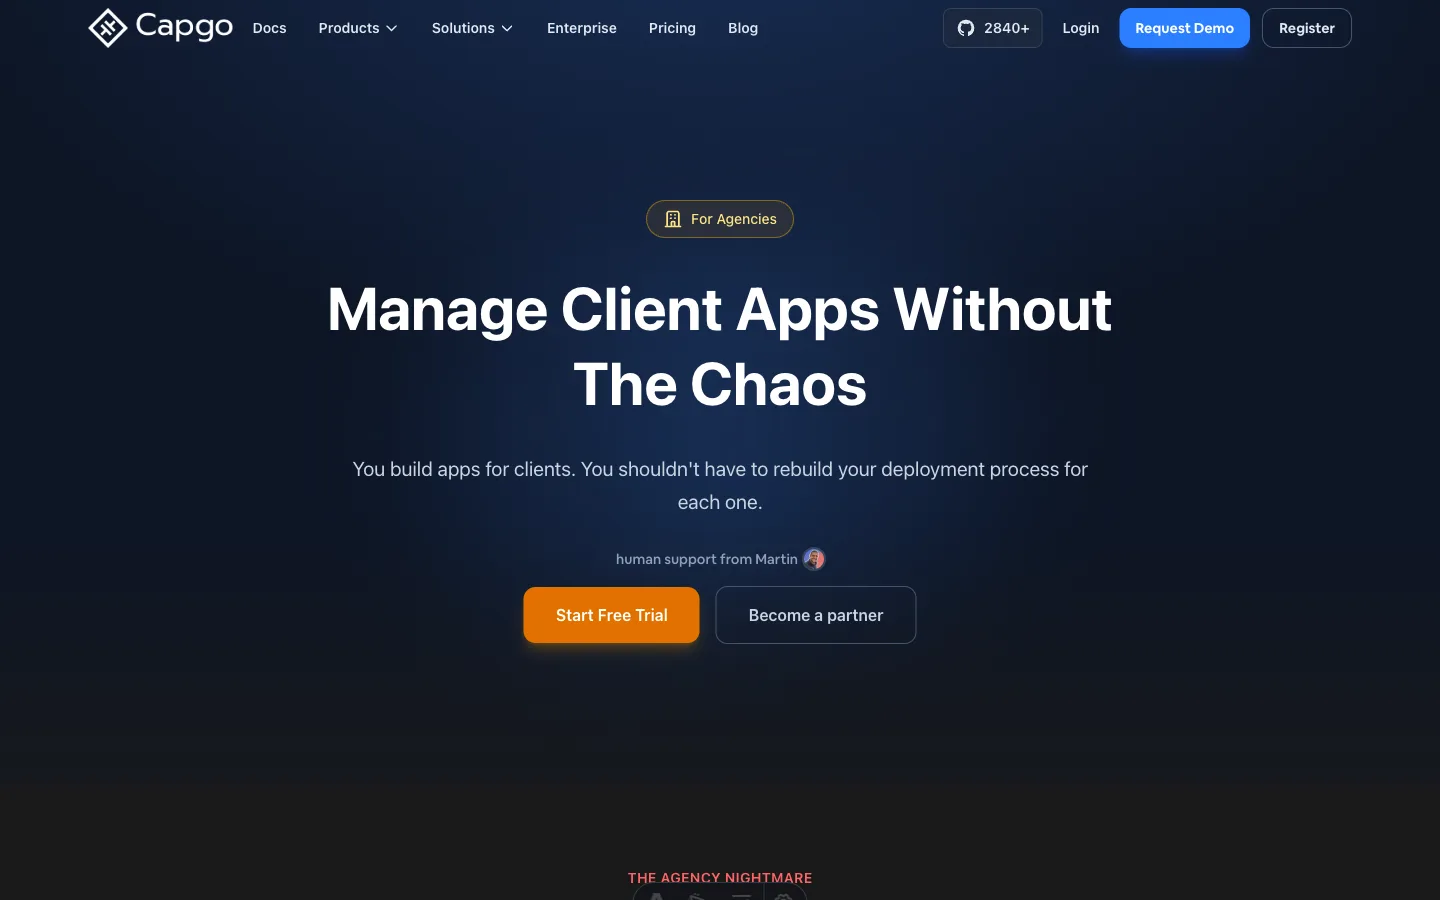
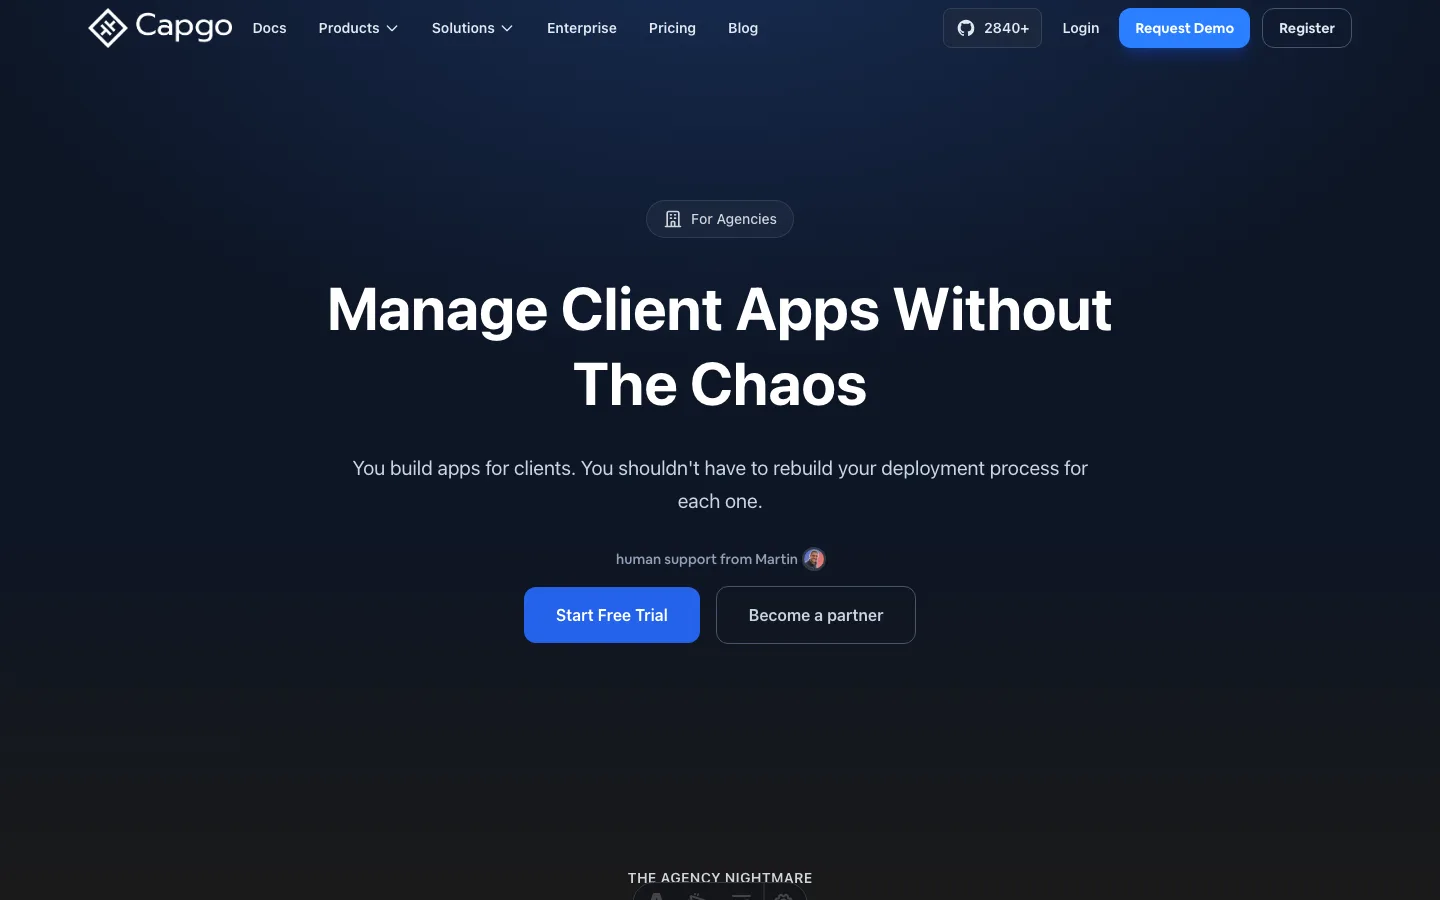
style(web): quiet rainbow chrome on solution pages
Header solutions each used a unique color skin. One remap
keeps the shared navy-to-charcoal wash.

Changed region(s): [[0.25, 0.28, 0.75, 0.7467], [0.4375, 0.9644, 0.5625, 0.9956], [0.4375, 0.2178, 0.5625, 0.2489]]

diff --git a/apps/web/src/styles/product-surface.css b/apps/web/src/styles/product-surface.css
@@ -17,17 +17,171 @@ body:has(:is(.lu, .nb, .cli, .ma, .sk, .product-hero, main.data-page)) {
   background-image: none;
 }
 
-.product-hero > section:first-of-type [class*='bg-linear-to-']:not(.bg-clip-text) {
+.product-hero [class*='bg-linear-to-']:not(.bg-clip-text),
+.product-hero [class*='bg-gradient-to-']:not(.bg-clip-text) {
   background-image: none;
 }
 
-.product-hero > section:first-of-type .blur-3xl {
-  background-color: rgb(59 130 246 / 0.12);
+.product-hero .blur-3xl {
+  display: none;
+}
+
+.product-hero .animate-pulse.rounded-full {
+  display: none;
 }
 
 .product-hero > section:not(:first-of-type) {
   background-color: transparent;
   background-image: none;
+}
+
+/* Unique per-page skins → Capgo blue + charcoal. Keep window traffic lights and clip-text. */
+.product-hero
+  :is(
+    [class*='bg-amber-'],
+    [class*='bg-orange-'],
+    [class*='bg-rose-'],
+    [class*='bg-pink-'],
+    [class*='bg-purple-'],
+    [class*='bg-violet-'],
+    [class*='bg-emerald-'],
+    [class*='bg-green-'],
+    [class*='bg-cyan-'],
+    [class*='bg-teal-'],
+    [class*='bg-sky-'],
+    [class*='bg-red-'],
+    [class*='bg-yellow-']
+  ):not(a, button, .bg-clip-text, .bg-red-500, .bg-yellow-500, .bg-green-500) {
+  background-color: rgba(255, 255, 255, 0.04);
+}
+
+.product-hero
+  :is(a, button):is(
+    [class*='bg-amber-'],
+    [class*='bg-orange-'],
+    [class*='bg-rose-'],
+    [class*='bg-pink-'],
+    [class*='bg-purple-'],
+    [class*='bg-violet-'],
+    [class*='bg-emerald-'],
+    [class*='bg-green-'],
+    [class*='bg-cyan-'],
+    [class*='bg-teal-'],
+    [class*='bg-sky-'],
+    [class*='bg-red-'],
+    [class*='bg-yellow-']
+  ) {
+  background-color: #2563eb;
+  color: #fff;
+  box-shadow: none;
+}
+
+.product-hero
+  :is(a, button):is(
+    [class*='bg-amber-'],
+    [class*='bg-orange-'],
+    [class*='bg-rose-'],
+    [class*='bg-pink-'],
+    [class*='bg-purple-'],
+    [class*='bg-violet-'],
+    [class*='bg-emerald-'],
+    [class*='bg-green-'],
+    [class*='bg-cyan-'],
+    [class*='bg-teal-'],
+    [class*='bg-sky-'],
+    [class*='bg-red-'],
+    [class*='bg-yellow-']
+  ):hover {
+  background-color: #3b82f6;
+}
+
+.product-hero
+  :is(
+    [class*='text-amber-'],
+    [class*='text-orange-'],
+    [class*='text-rose-'],
+    [class*='text-pink-'],
+    [class*='text-purple-'],
+    [class*='text-violet-'],
+    [class*='text-red-'],
+    [class*='text-yellow-']
+  ) {
+  color: #d1d5dc;
+}
+
+.product-hero :is([class*='text-emerald-'], [class*='text-green-'], [class*='text-cyan-'], [class*='text-teal-'], [class*='text-sky-']) {
+  color: #93c5fd;
+}
+
+.product-hero
+  :is(
+    [class*='border-amber-'],
+    [class*='border-orange-'],
+    [class*='border-rose-'],
+    [class*='border-pink-'],
+    [class*='border-purple-'],
+    [class*='border-violet-'],
+    [class*='border-emerald-'],
+    [class*='border-green-'],
+    [class*='border-cyan-'],
+    [class*='border-teal-'],
+    [class*='border-sky-'],
+    [class*='border-red-'],
+    [class*='border-yellow-']
+  ) {
+  border-color: rgba(255, 255, 255, 0.1);
+}
+
+.product-hero
+  :is(
+    [class*='shadow-amber-'],
+    [class*='shadow-orange-'],
+    [class*='shadow-rose-'],
+    [class*='shadow-pink-'],
+    [class*='shadow-purple-'],
+    [class*='shadow-violet-'],
+    [class*='shadow-emerald-'],
+    [class*='shadow-green-'],
+    [class*='shadow-cyan-'],
+    [class*='shadow-teal-'],
+    [class*='shadow-sky-'],
+    [class*='shadow-red-'],
+    [class*='shadow-yellow-']
+  ) {
+  box-shadow: none;
+}
+
+.product-hero
+  :is(
+    [class*='ring-amber-'],
+    [class*='ring-orange-'],
+    [class*='ring-rose-'],
+    [class*='ring-pink-'],
+    [class*='ring-purple-'],
+    [class*='ring-violet-'],
+    [class*='ring-emerald-'],
+    [class*='ring-green-'],
+    [class*='ring-cyan-'],
+    [class*='ring-teal-'],
+    [class*='ring-sky-'],
+    [class*='ring-red-'],
+    [class*='ring-yellow-']
+  ) {
+  --tw-ring-color: rgb(96 165 250 / 0.45);
+}
+
+.product-hero :is(.bg-gray-800, .bg-gray-900, .bg-slate-800, .bg-slate-900, .bg-gray-950, .bg-slate-950) {
+  background-color: rgba(255, 255, 255, 0.03);
+}
+
+.product-hero a[class*='hover:bg-gray-']:hover,
+.product-hero a[class*='hover:bg-slate-']:hover {
+  background-color: rgba(255, 255, 255, 0.05);
+}
+
+.product-hero
+  :is([class*='fill-amber-'], [class*='fill-orange-'], [class*='fill-rose-'], [class*='fill-red-'], [class*='fill-yellow-'], [class*='fill-green-'], [class*='fill-emerald-']) {
+  fill: #6b7280;
 }
 
 :is(.lu, .nb, .cli, .ma, .sk).bg-ad .hero {
